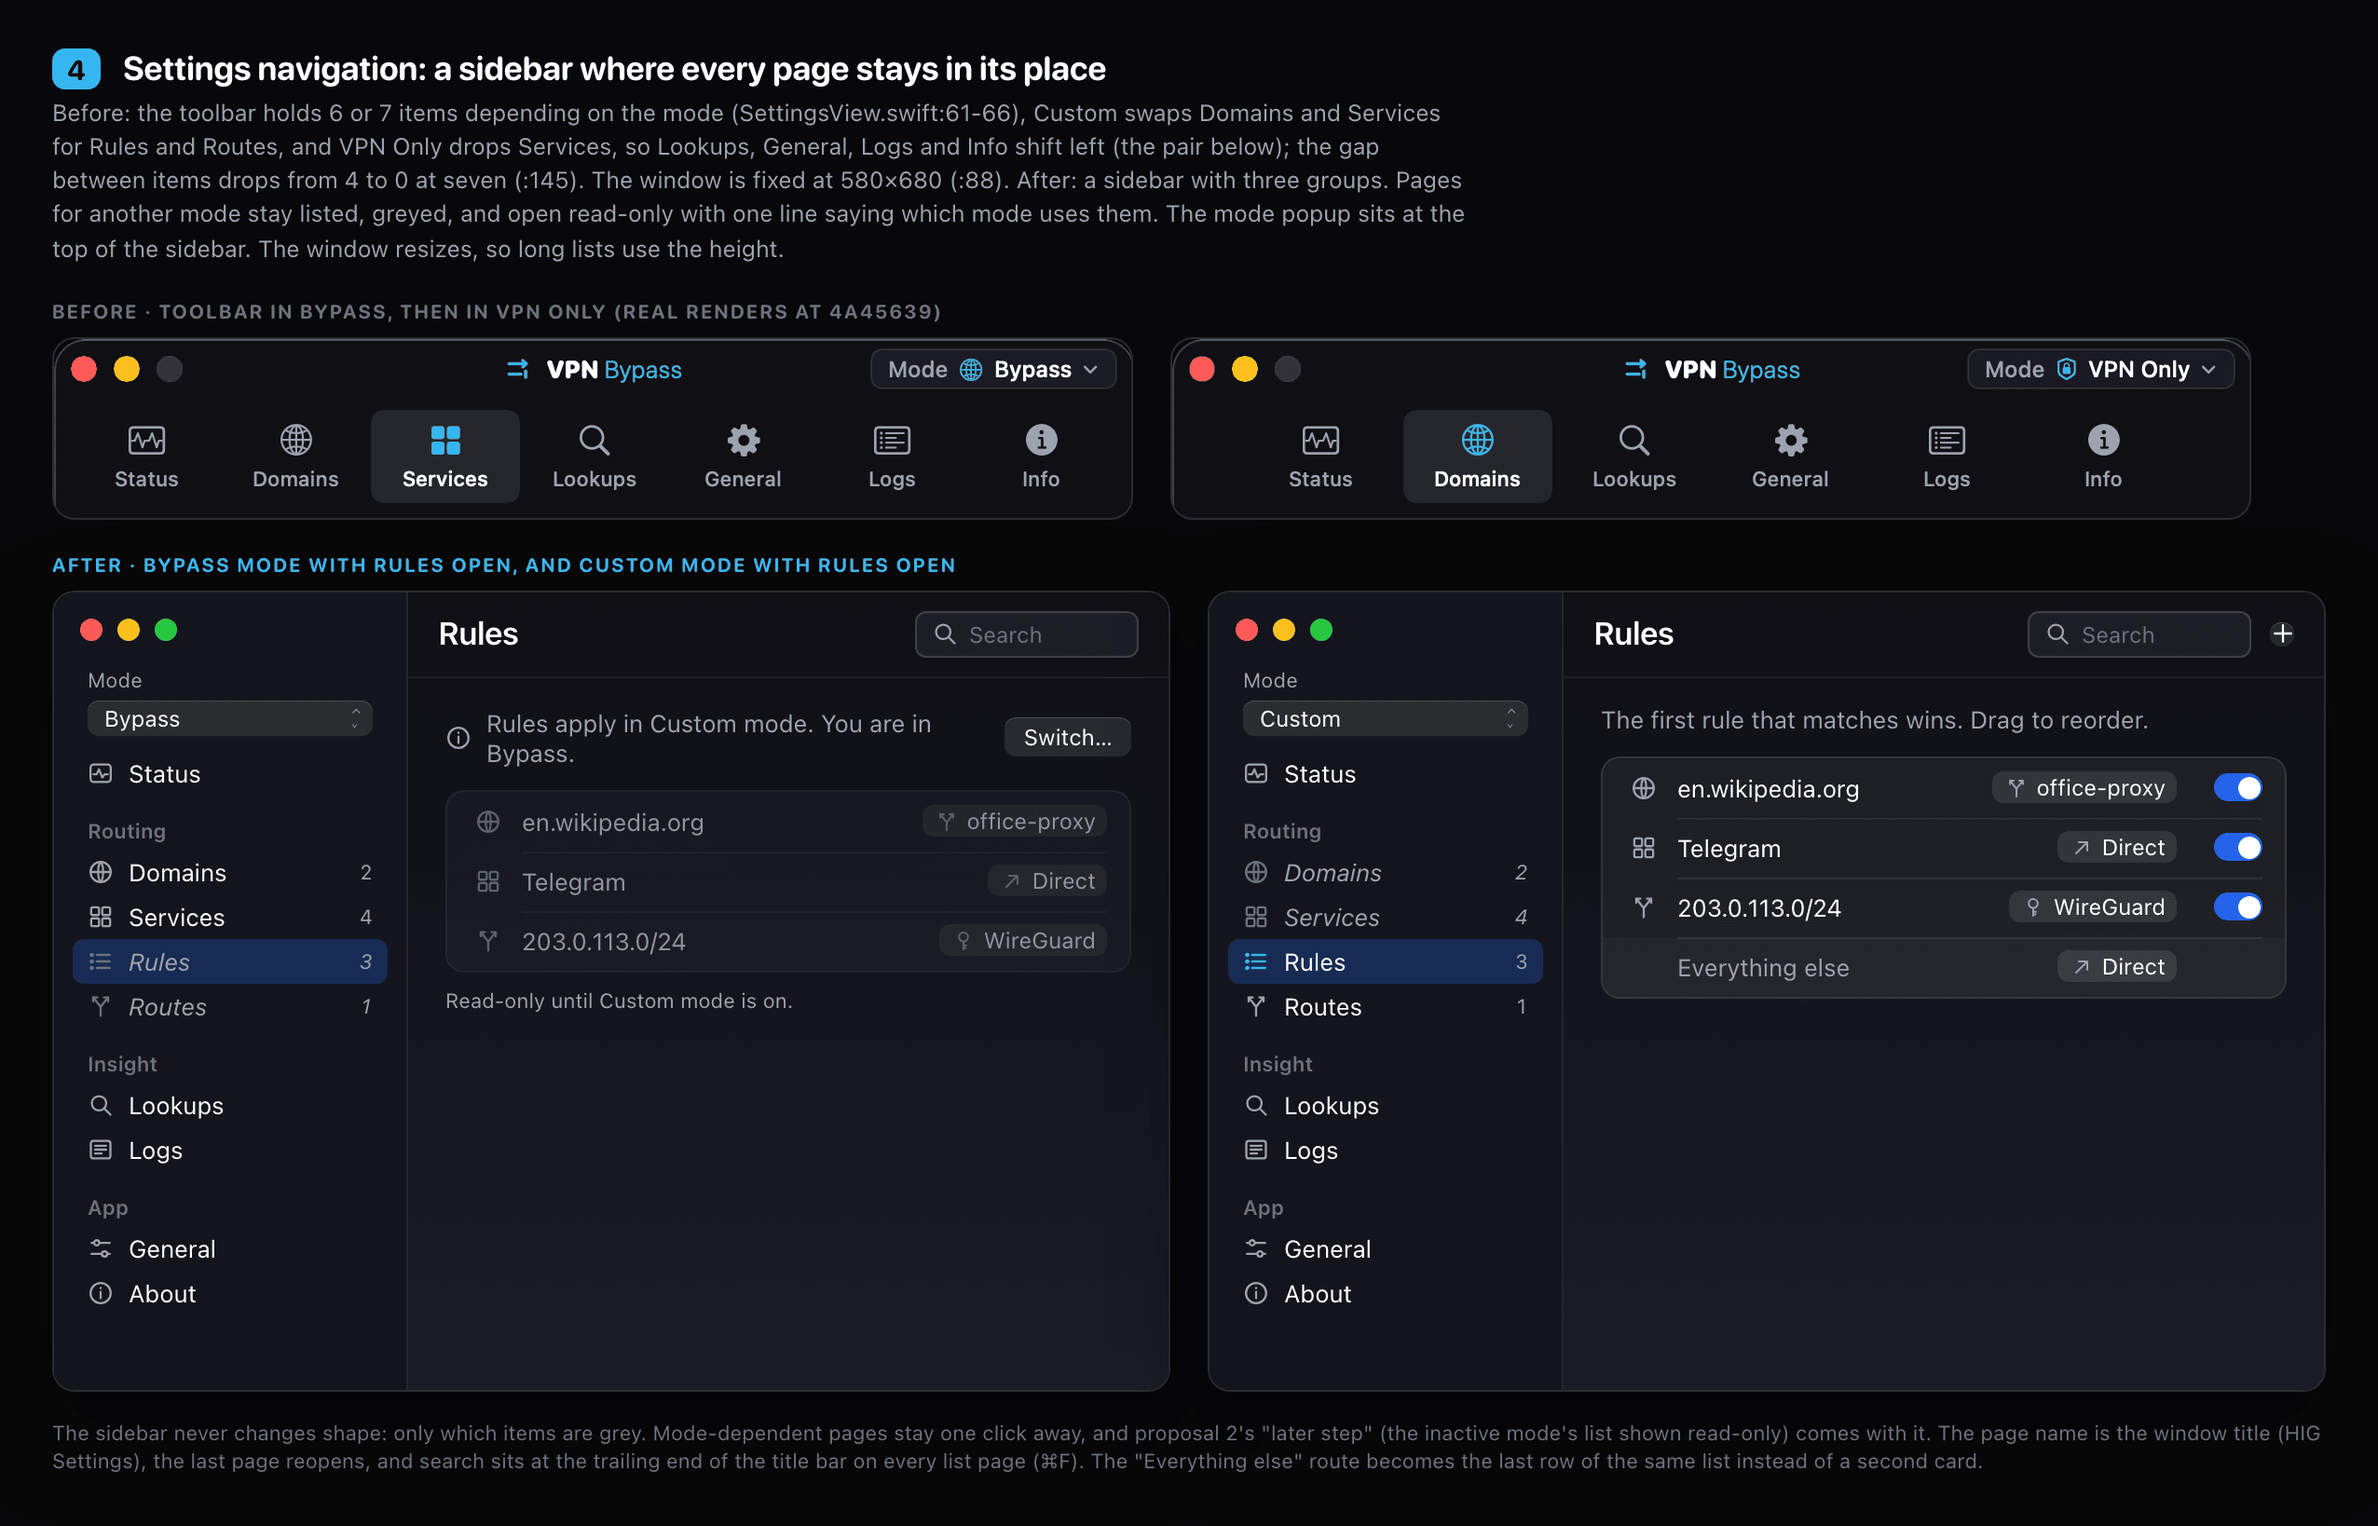
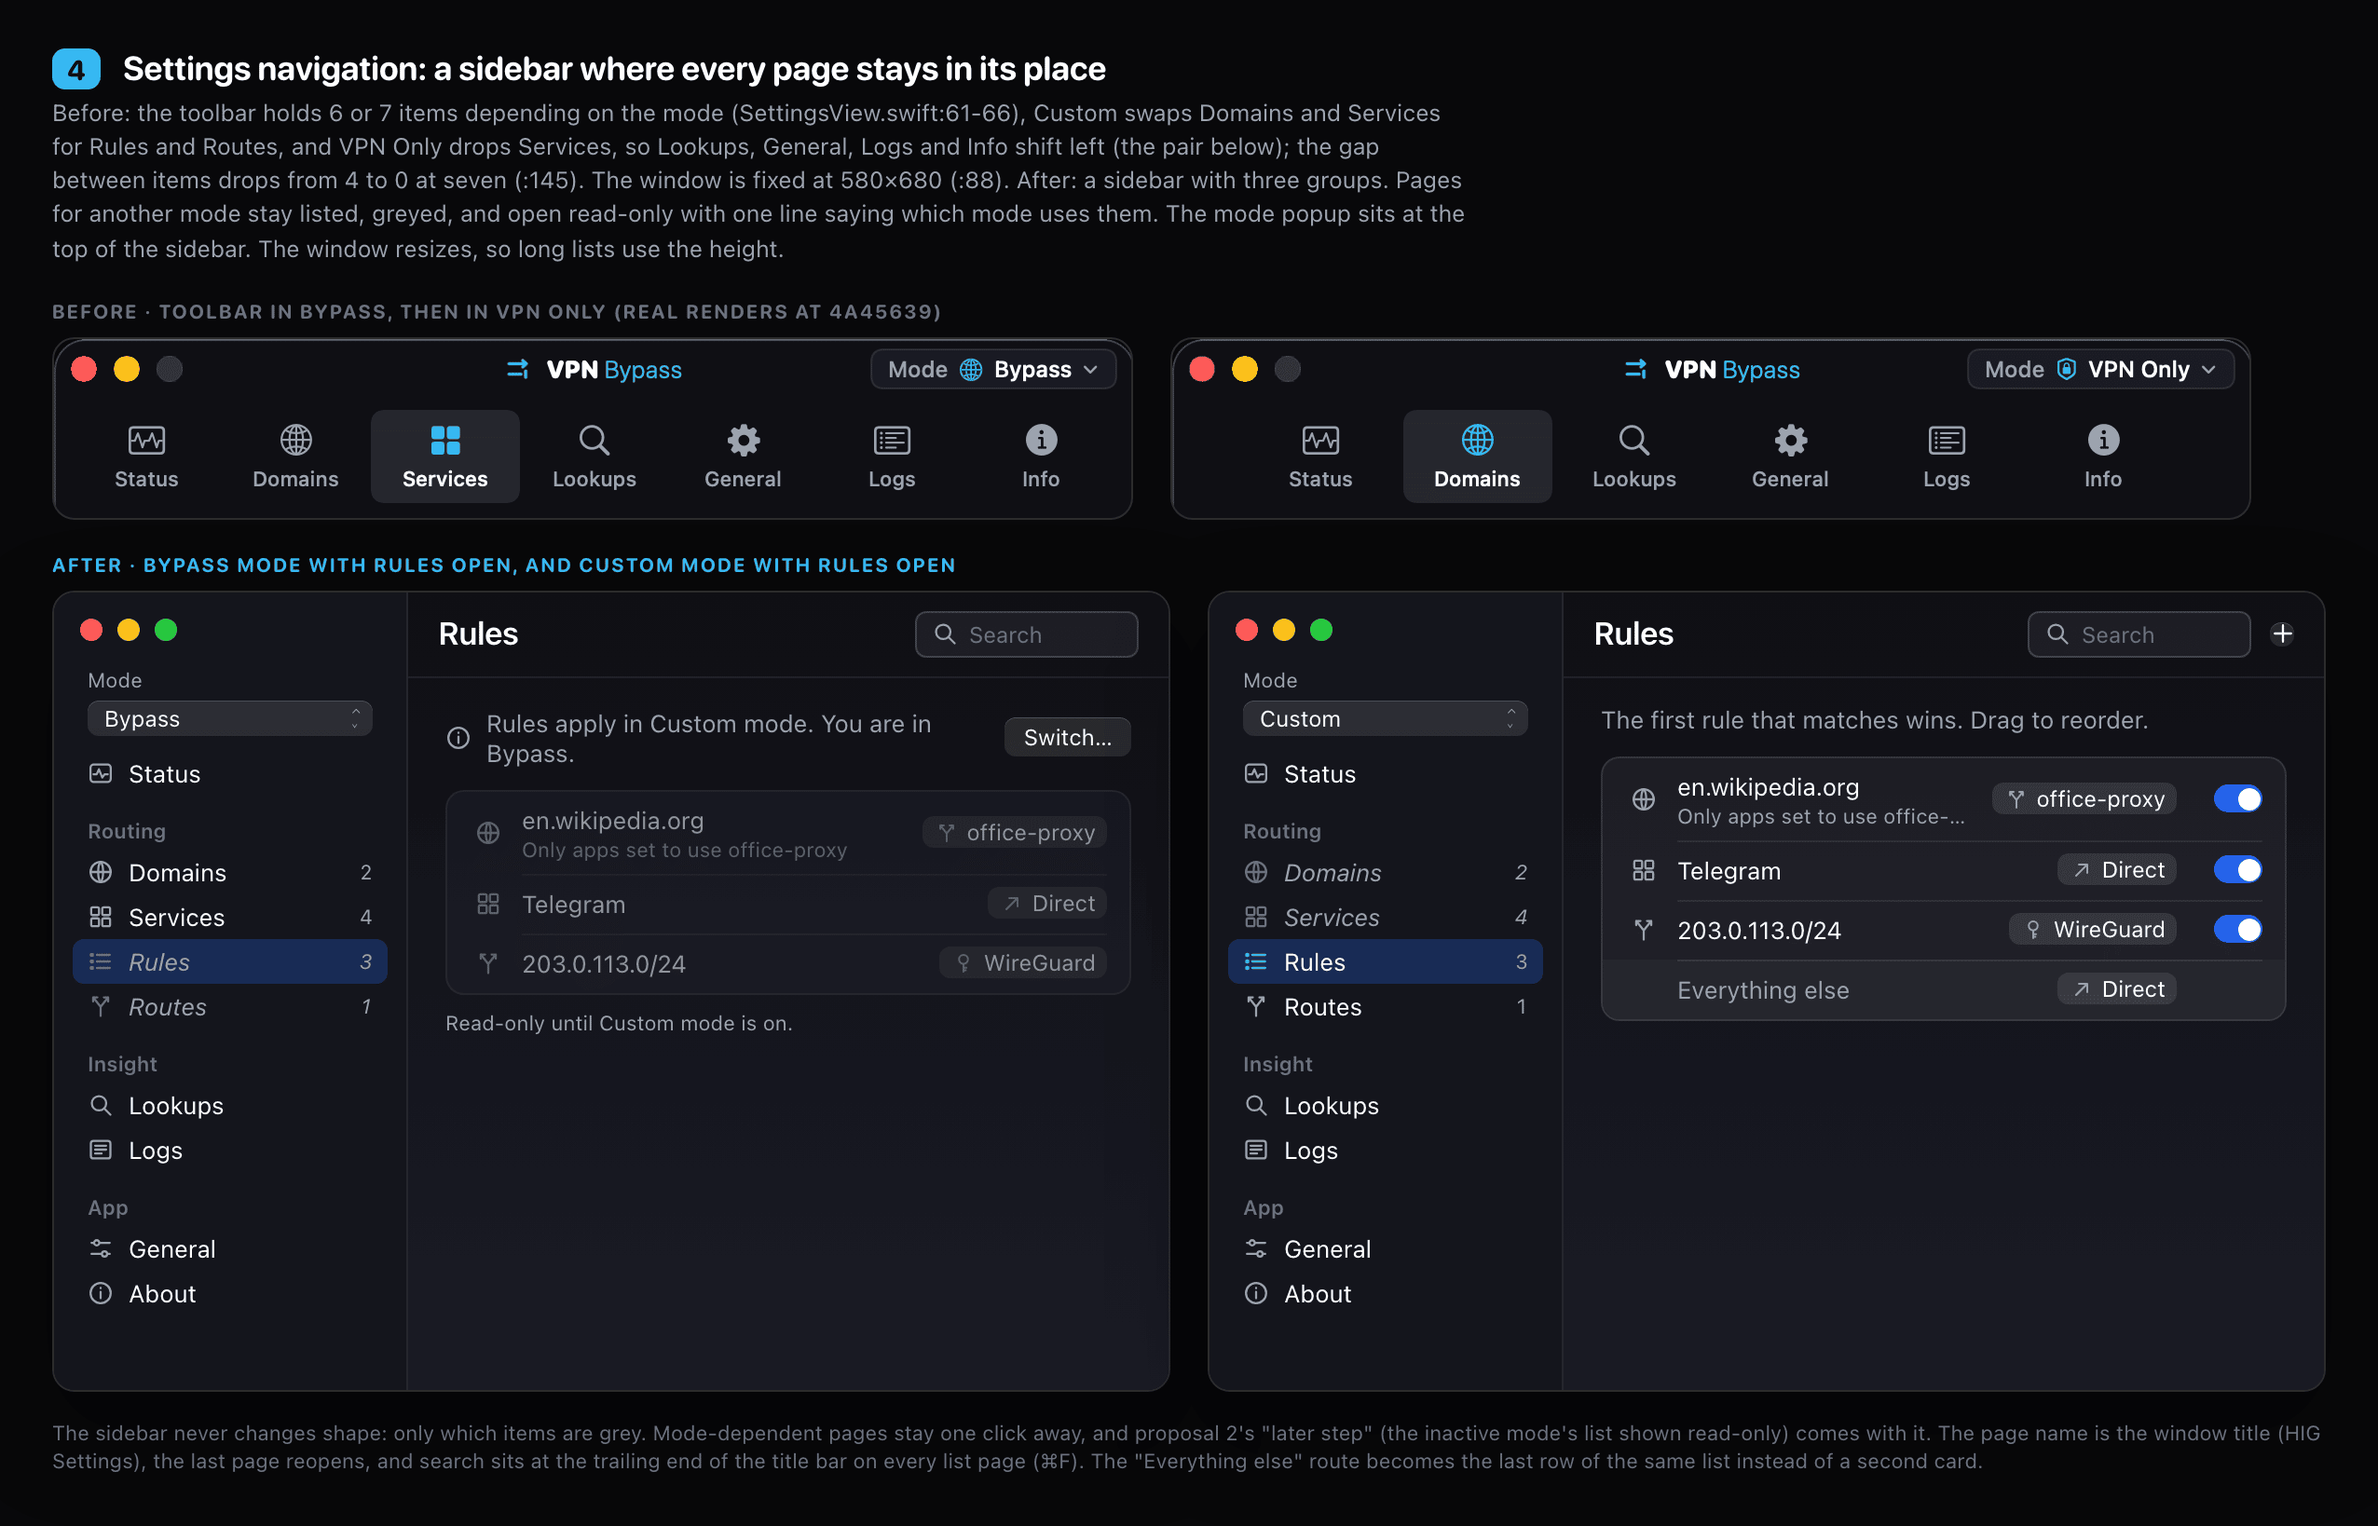
docs(design): keep Pause honest about per-app flows and the mockups true to the app
Pause also pushes the extension's empty policy once per-app routing exists,
and says open per-app connections keep their path. Whether the engine gates
6.0.0 is left to the Network Extension plan. Mockups: the partly-routed
dropdown counts four services, proxy rules carry their reach note, and the
Bypass list no longer offers IP ranges, which it rejects.

diff --git a/docs/design/proposals/rework/04-navigation.html b/docs/design/proposals/rework/04-navigation.html
@@ -38,7 +38,7 @@
           <div class="pane">
             <div class="r gap8" style="margin-bottom:12px"><i data-g="info"></i><span class="ty-body fill" style="color:var(--t2)">Rules apply in Custom mode. You are in Bypass.</span><span class="btn">Switch…</span></div>
             <div class="box" style="opacity:.55">
-              <div class="row2"><span class="lead"><i data-g="globe"></i></span><span class="name fill">en.wikipedia.org</span><span class="rchip"><i data-g="branch"></i>office-proxy</span></div>
+              <div class="row2 two"><span class="lead"><i data-g="globe"></i></span><div class="fill"><div class="name">en.wikipedia.org</div><div class="det ell">Only apps set to use office-proxy</div></div><span class="rchip"><i data-g="branch"></i>office-proxy</span></div>
               <div class="row2"><span class="lead"><i data-g="grid"></i></span><span class="name fill">Telegram</span><span class="rchip"><i data-g="out"></i>Direct</span></div>
               <div class="row2"><span class="lead"><i data-g="branch"></i></span><span class="name fill ty-mono">203.0.113.0/24</span><span class="rchip"><i data-g="key"></i>WireGuard</span></div>
             </div>
@@ -69,7 +69,7 @@
           <div class="pane">
             <div class="ty-body" style="color:var(--t2);margin:-2px 0 12px">The first rule that matches wins. Drag to reorder.</div>
             <div class="box">
-              <div class="row2"><span class="lead"><i data-g="globe"></i></span><span class="name fill">en.wikipedia.org</span><span class="rchip"><i data-g="branch"></i>office-proxy</span><span class="sw on" style="margin-left:12px"></span></div>
+              <div class="row2 two"><span class="lead"><i data-g="globe"></i></span><div class="fill"><div class="name">en.wikipedia.org</div><div class="det ell">Only apps set to use office-proxy</div></div><span class="rchip"><i data-g="branch"></i>office-proxy</span><span class="sw on" style="margin-left:12px"></span></div>
               <div class="row2"><span class="lead"><i data-g="grid"></i></span><span class="name fill">Telegram</span><span class="rchip"><i data-g="out"></i>Direct</span><span class="sw on" style="margin-left:12px"></span></div>
               <div class="row2"><span class="lead"><i data-g="branch"></i></span><span class="name fill ty-mono">203.0.113.0/24</span><span class="rchip"><i data-g="key"></i>WireGuard</span><span class="sw on" style="margin-left:12px"></span></div>
               <div class="row2" style="background:rgba(255,255,255,.025);border-radius:0 0 10px 10px"><span class="lead"></span><span class="name fill" style="color:var(--t2)">Everything else</span><span class="rchip"><i data-g="out"></i>Direct</span><span style="width:38px"></span></div>

diff --git a/docs/design/proposals/rework/05-lists.html b/docs/design/proposals/rework/05-lists.html
@@ -18,7 +18,7 @@
           <div class="ty-body" style="color:var(--t2);margin:-2px 0 12px">Sites on this list skip the VPN and use your normal connection.</div>
           <div class="r sec"><span class="ty-section fill">Bypass list</span><span class="ty-detail" style="margin-right:58px">addresses</span></div>
           <div class="box">
-            <div class="row2"><span class="lead"><i data-g="plus"></i></span><span class="name fill" style="color:var(--t3)">Add a domain, *.wildcard or IP range…</span></div>
+            <div class="row2"><span class="lead"><i data-g="plus"></i></span><span class="name fill" style="color:var(--t3)">Add a domain or *.wildcard…</span></div>
             <div class="row2 hov"><span class="lead"><i data-g="globe"></i></span><span class="name fill ell">en.wikipedia.org</span><span class="acts"><span><i data-g="trash"></i></span><span><i data-g="more"></i></span></span><span class="val" style="width:24px">4</span><span class="sw on" style="margin-left:12px"></span></div>
             <div class="row2"><span class="lead"><i data-g="globe"></i></span><span class="name fill ell">news.ycombinator.com</span><span class="val" style="width:24px">4</span><span class="sw on" style="margin-left:12px"></span></div>
             <div class="row2"><span class="lead"><i data-g="globe"></i></span><span class="name fill ell">*.example.com <span class="ty-detail">· learned as you browse</span></span><span class="val" style="width:24px">11</span><span class="sw on" style="margin-left:12px"></span></div>

diff --git a/docs/design/proposals/rework/03-dropdown.html b/docs/design/proposals/rework/03-dropdown.html
@@ -54,7 +54,7 @@
       <!-- some failed -->
       <div class="dd">
         <div class="r"><span class="wm">VPN<b>Bypass</b></span><span class="fill"></span><span class="chip attn"><i></i>Partly routed</span></div>
-        <div style="margin-top:12px"><div class="ty-strong">WireGuard connected</div><div class="ty-body" style="margin-top:2px">5 services and 2 domains skip the VPN.</div>
+        <div style="margin-top:12px"><div class="ty-strong">WireGuard connected</div><div class="ty-body" style="margin-top:2px">4 services and 2 domains skip the VPN.</div>
           <div class="r" style="margin-top:4px;gap:6px;min-height:22px"><i data-g="warn" class="attn"></i><span class="ty-detail fill tnum" style="color:var(--t1)">62 addresses, 7 failed · 1 min ago</span><span class="btn">Show</span></div></div>
         <div class="r" style="margin-top:10px"><span class="ty-detail" style="font-size:12px">Mode</span><span class="fill"></span><span class="pop">Bypass</span></div>
         <div class="ddsep"></div>

diff --git a/docs/design/APP-REWORK-PROPOSALS.md b/docs/design/APP-REWORK-PROPOSALS.md
@@ -240,7 +240,7 @@ These are bugs. Each is S, and none depends on the rework.
 
 **2. There is no pause.** *What the user sees:* to check whether the app causes a problem, users quit it or switch modes. The nearest thing is ⋯ → Remove All Routes… → an alert, and the routes come back on the next reconnect or DNS refresh (`MenuBarViews.swift:528`, `:905-933`). *Proposal:* a Pause button with For 15 minutes, For 1 hour, Until the VPN reconnects and Until I resume (image 7). What Pause may do depends on the mode, because removing routes is safe in one direction only:
 
-- **Bypass.** Pausing runs `removeAllRoutes` (`RouteManager.swift:2535`) and everything goes through the VPN. That is the safe direction, and it is the state drawn: "Paused: everything goes through the VPN." That line shows only once every route is gone. `removeAllRoutes` keeps a route it could not remove, and keeps all of them when the helper is not ready, so in that case the block says how many routes are still in place, with Retry, and does not say Paused.
+- **Bypass.** Pausing runs `removeAllRoutes` (`RouteManager.swift:2535`) and everything goes through the VPN. That is the safe direction, and it is the state drawn: "Paused: everything goes through the VPN." That line shows only once every route is gone. `removeAllRoutes` keeps a route it could not remove, and keeps all of them when the helper is not ready, so in that case the block says how many routes are still in place, with Retry, and does not say Paused. Once per-app routing exists, Pause also pushes the Network Extension's empty policy, as its own pause does. That closes no open flow, so while claimed per-app connections are still open the line says new connections go through the VPN and open ones keep their path until they close.
 - **VPN Only.** Not offered. Removing these routes sends the listed sites out over the open connection, the leak idea 7 exists to prevent. The Pause button is greyed with one line: "Pausing VPN Only would send listed sites outside the VPN. Switch mode instead."
 - **Custom.** Offered only when every enabled rule goes Direct, where it behaves as in Bypass. A proxy rule has no route to remove: a loopback listener serves it, and removing routes leaves that listener running, so "everything goes through the VPN" would be false. If any rule sends traffic into the VPN, removing it can send that traffic outside the VPN. In both cases Pause is greyed as in VPN Only, naming the rule.
 
@@ -291,7 +291,7 @@ Filtered from the product research. Two facts shape the list. First, every per-a
 
 Each step is one PR unless it says otherwise. Every new string goes in EN, ES and FR (`check-localizations.py`), and every new control gets a VoiceOver name.
 
-**How it ships.** Everything decided at the top ships in 6.0.0, together with #184, the #185 catalogue, the #186 kill-switch warning and the Network Extension engine. Each step's PR targets the `release/6.0` branch, so `main` and its auto-tag stay still; 6.0.0 is cut once, by merging `release/6.0` into `main`, after a full test on the Mac and a live test on the VPN.
+**How it ships.** Everything decided at the top ships in 6.0.0, together with #184, the #185 catalogue and the #186 kill-switch warning. Whether the Network Extension engine also gates 6.0.0 is settled in [`NETWORK-EXTENSION-DESIGN.md`](NETWORK-EXTENSION-DESIGN.md), under "Base branches", with its launch gate. Each step's PR targets the `release/6.0` branch, so `main` and its auto-tag stay still; 6.0.0 is cut once, by merging `release/6.0` into `main`, after a full test on the Mac and a live test on the VPN.
 
 1. **Bugs A1 to A7 and B1 to B4**, one or two PRs. S each.
 2. **Tokens and components:** `Theme.Font`, `Theme.Space`, `Theme.Radius`, the colour roles, and `Components.swift` with the seven components, each with a snapshot in `DocScreenshotsTests`. No page changes. M.
